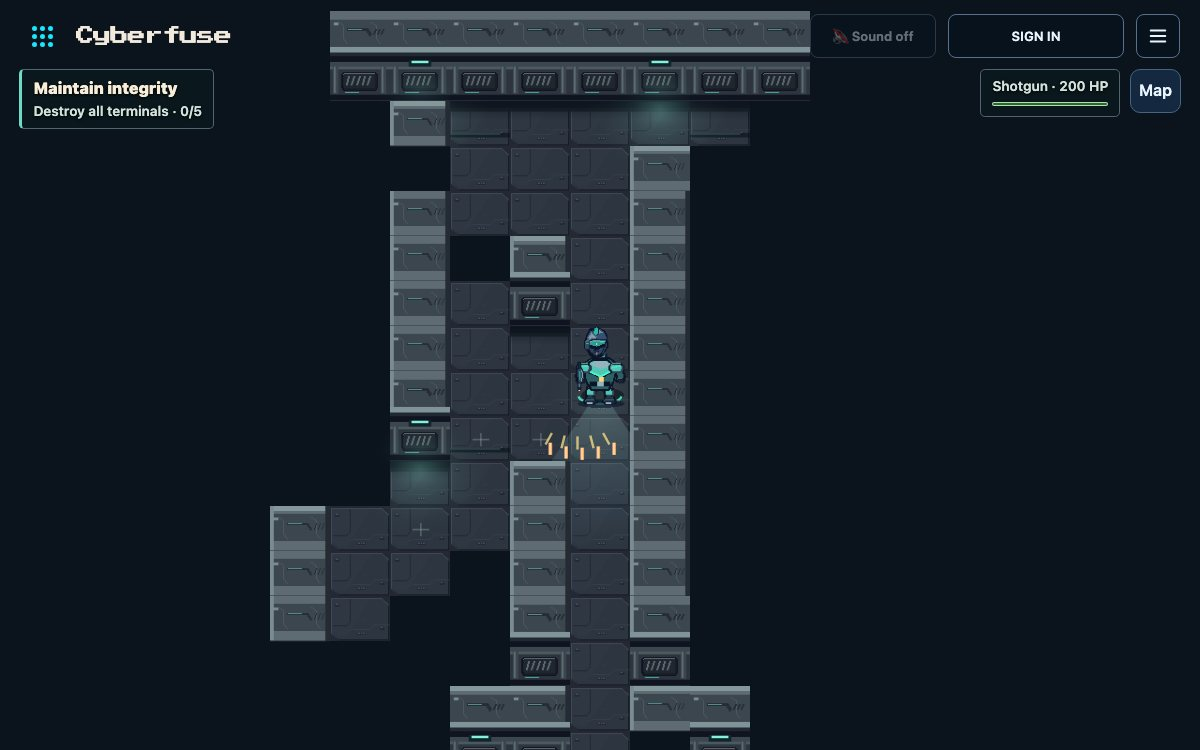
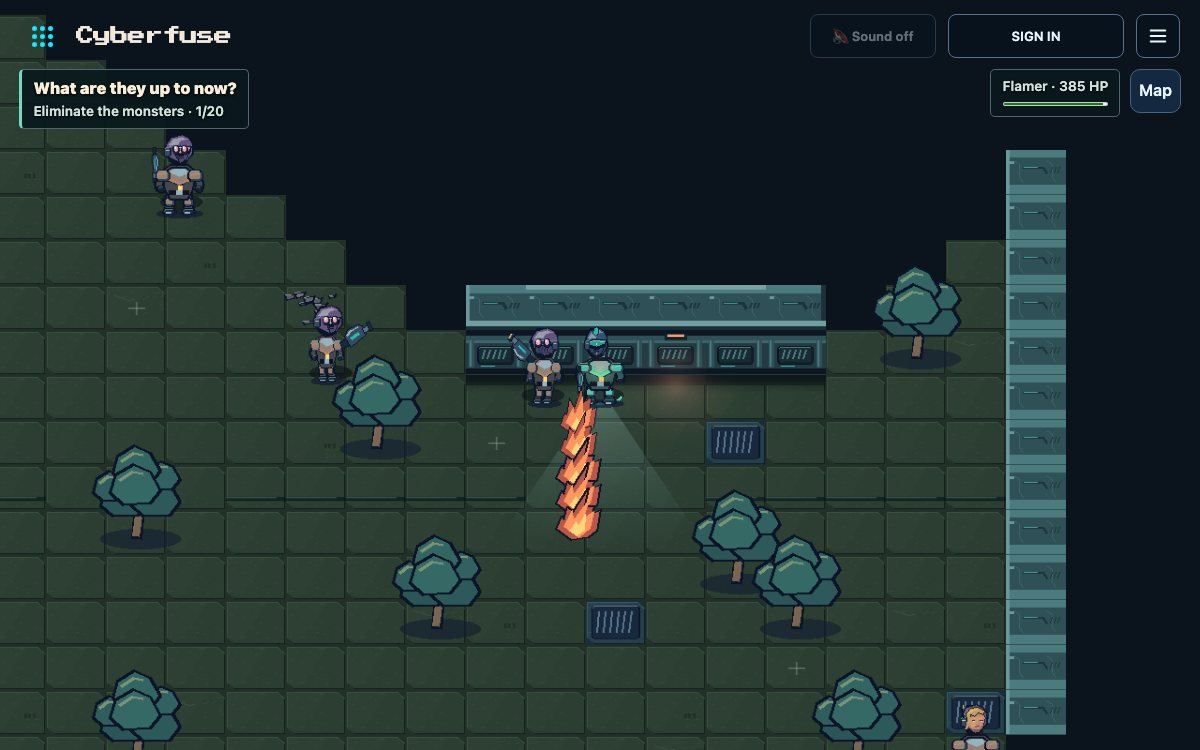
Capture Cyberfuse in a live Bug-Eyed Monsters firefight

diff --git a/scripts/gallery-capture.ts b/scripts/gallery-capture.ts
@@ -72,14 +72,66 @@ type Recipe = (page: Page) => Promise<void>;
 const RECIPES: Record<string, Recipe> = {
   cyberfuse: async (page) => {
     await openPlayOptions(page, "single");
-    await page.getByRole("button", { name: "Deploy", exact: true }).click();
-    await page
-      .locator('.cyberfuse-room[data-phase="running"] canvas')
-      .first()
+    const briefing = page.getByRole("dialog");
+    await briefing
+      .getByRole("combobox", { name: "Campaign" })
+      .selectOption({ label: "Bug-Eyed Monsters" });
+    await briefing.getByText("Mission password", { exact: true }).click();
+    // This DOS solo password opens the second mission, a suburb with guards, courtyards and trees.
+    await briefing.getByRole("textbox", { name: "Password" }).fill("hfelya");
+    await briefing.getByRole("button", { name: "Use password" }).click();
+    await briefing
+      .getByRole("heading", { name: "What are they up to now?" })
       .waitFor();
+    await briefing.getByText("Difficulty", { exact: true }).click();
+    await briefing.locator("select[name=difficulty]").selectOption("easy");
+    await briefing.locator("select[name=density]").selectOption("200");
+    await briefing.locator("select[name=playerHp]").selectOption("200");
+    await briefing
+      .getByRole("checkbox", { name: "Flamer", exact: true })
+      .check();
+    await briefing
+      .getByRole("checkbox", { name: "Machine gun", exact: true })
+      .uncheck();
+    await briefing
+      .getByRole("checkbox", { name: "Shotgun", exact: true })
+      .uncheck();
+    await briefing.getByRole("button", { name: "Deploy", exact: true }).click();
+    const arena = page
+      .locator('.cyberfuse-room[data-phase="running"] canvas')
+      .first();
+    await arena.waitFor();
+    // Rooms vary with the match seed. Play until the HUD records contact and a sizeable
+    // stretch of visible terrain surrounds the player. Fire stays held through the capture.
     await page.keyboard.down("Space");
-    await hold(page, ["ArrowRight", "ArrowDown"], 450);
-    await page.keyboard.up("Space");
+    for (const key of [
+      "ArrowRight",
+      "ArrowDown",
+      "ArrowLeft",
+      "ArrowDown",
+      "ArrowRight",
+      "ArrowUp",
+      "ArrowRight",
+      "ArrowDown",
+    ]) {
+      await hold(page, [key], 1000);
+      const inAction = await arena.evaluate((canvas: HTMLCanvasElement) => {
+        const hp = document.querySelector<HTMLMeterElement>(".cf-hud meter");
+        if (!hp || hp.value >= hp.max || hp.value <= 0) return false;
+        const small = document.createElement("canvas");
+        small.width = 40;
+        small.height = 25;
+        const ctx = small.getContext("2d")!;
+        ctx.drawImage(canvas, 0, 0, 40, 25);
+        const pixels = ctx.getImageData(0, 0, 40, 25).data;
+        let visible = 0;
+        for (let i = 0; i < pixels.length; i += 4)
+          if (pixels[i]! > 23 || pixels[i + 1]! > 34 || pixels[i + 2]! > 42)
+            visible++;
+        return visible >= 730 || hp.value < hp.max * 0.3;
+      });
+      if (inAction) break;
+    }
   },
   "fuse-drivers": async (page) => {
     await openPlayOptions(page, "single");
